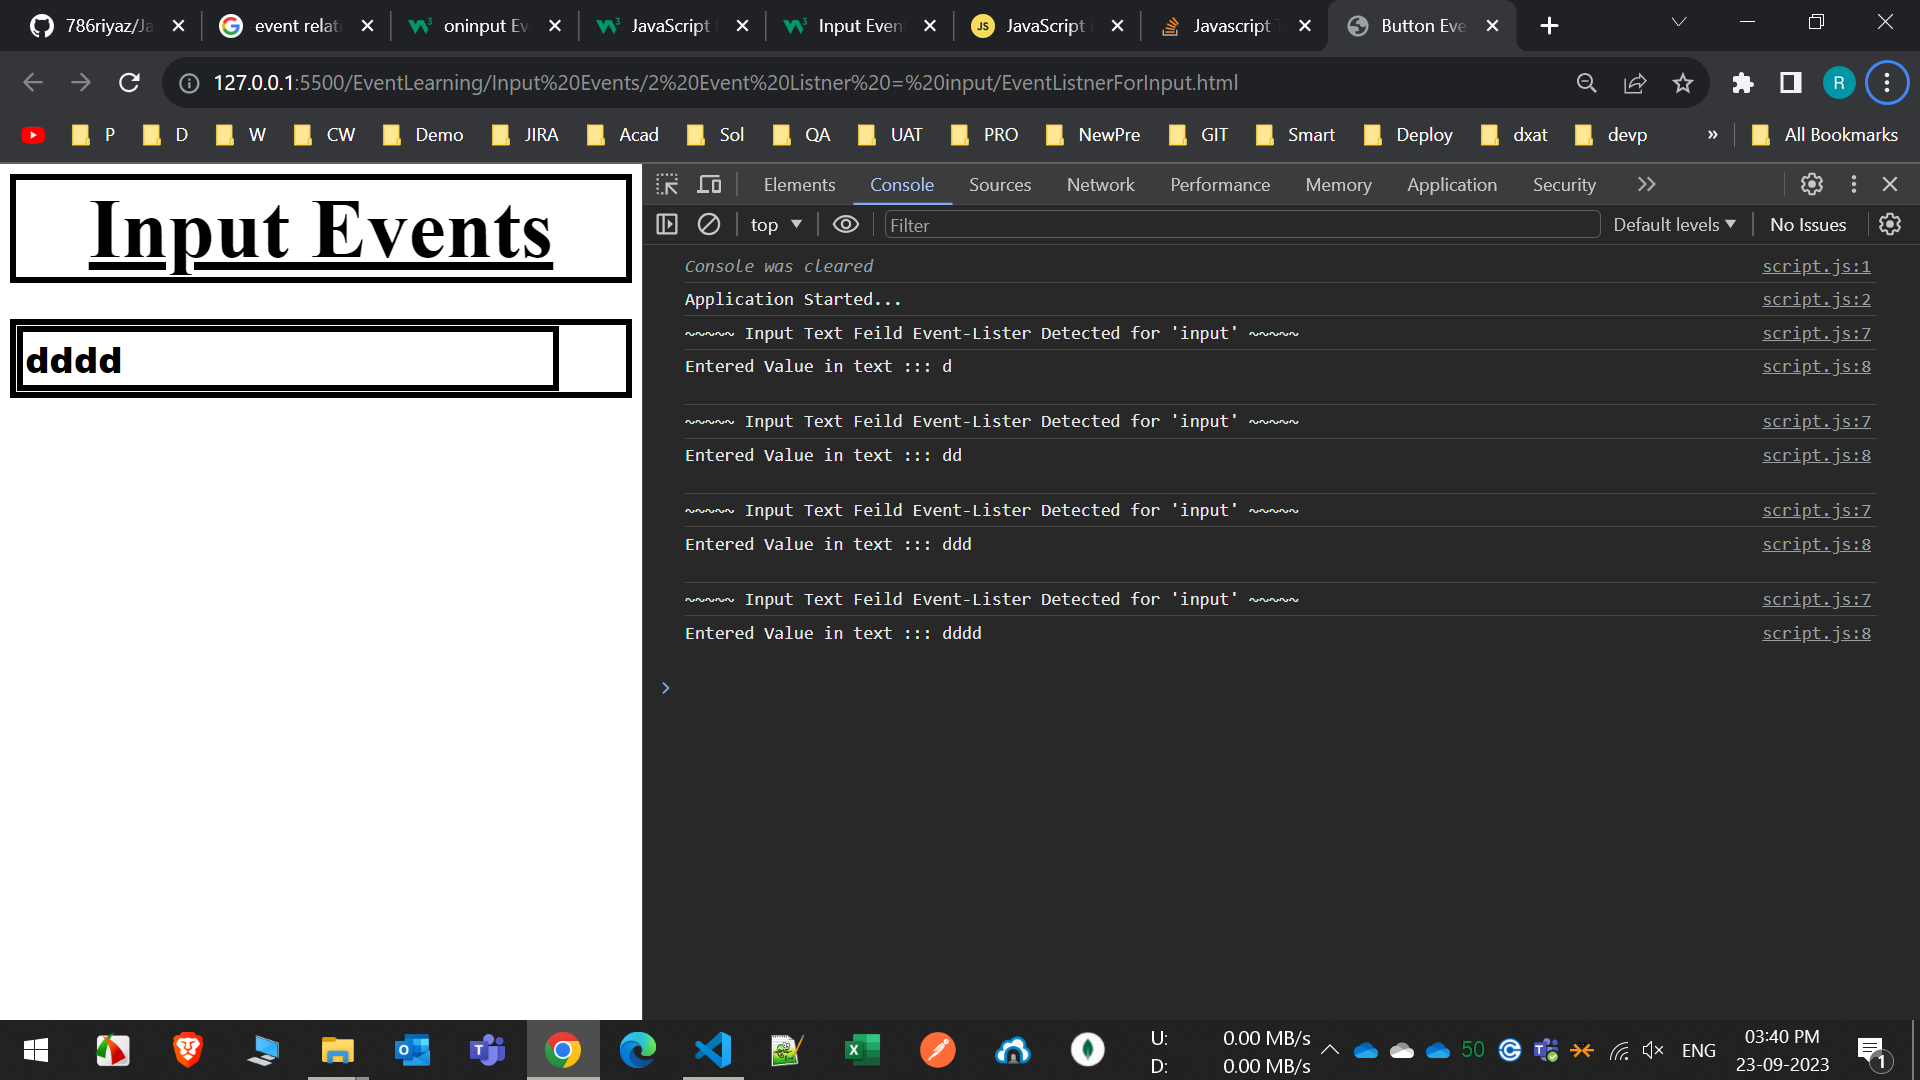
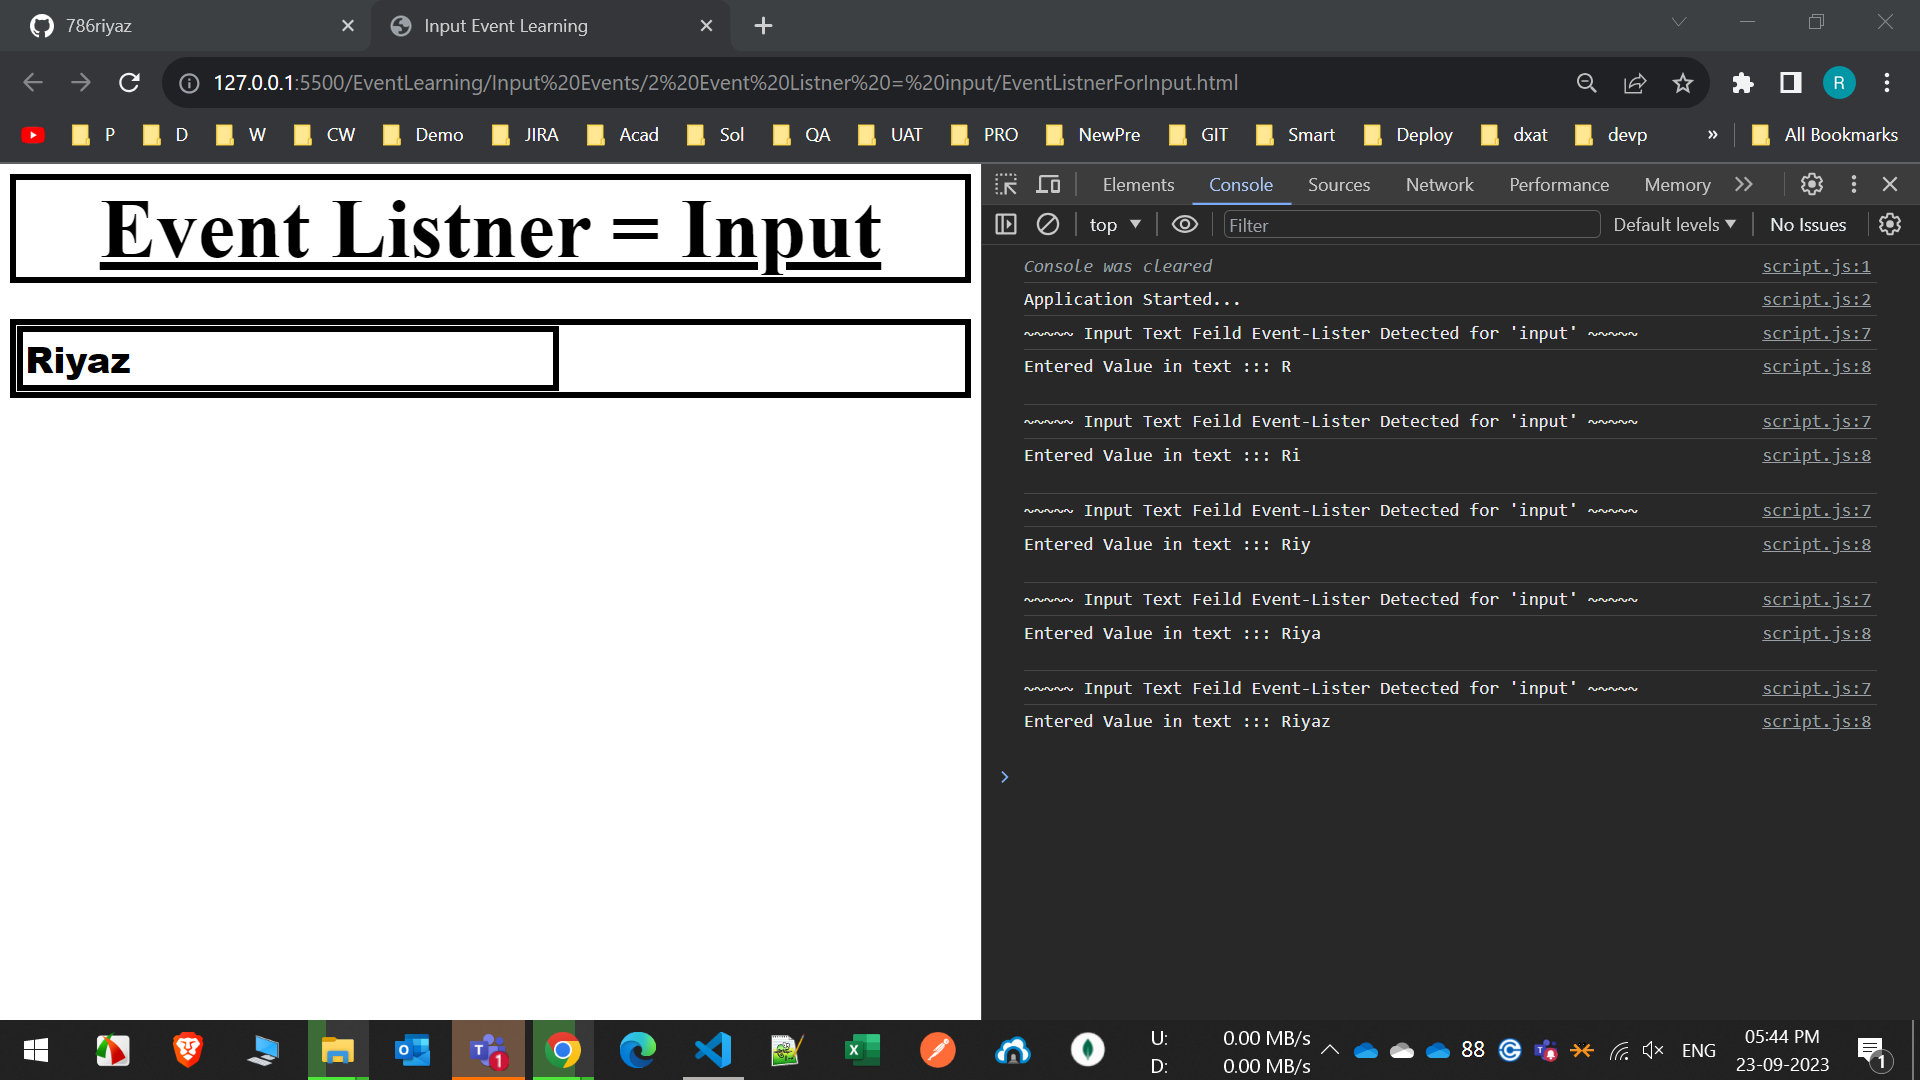
Rename and Arranged all files and folders

diff --git a/EventLearning/Input Events/5 On Input Attribute and Event Listner/InputEventAndAttribute.html b/EventLearning/Input Events/5 On Input Attribute and Event Listner/InputEventAndAttribute.html
@@ -1,0 +1,22 @@
+<!DOCTYPE html>
+<html lang="en">
+
+<head>
+    <meta charset="UTF-8">
+    <meta name="viewport" content="width=device-width, initial-scale=1.0">
+    <title>Input Event Learning</title>
+</head>
+
+<body>
+<h1>Event Listner and on Input Attribute of text Area</h1>
+    <input type="text" id="inputText"><br><br>
+    <input type="number" id="inputNumber"><br><br>
+
+    <textarea name="textarea" id="textarea" cols="30" rows="10"
+        oninput="onInputAttributeFunction(this.value)"></textarea>
+
+</body>
+<link rel="stylesheet" href="style.css">
+<script src="script.js"></script>
+
+</html>

diff --git a/EventLearning/Input Events/4 On Change Attribute/OnChangeAttribute.html b/EventLearning/Input Events/4 On Change Attribute/OnChangeAttribute.html
@@ -4,17 +4,16 @@
 <head>
     <meta charset="UTF-8">
     <meta name="viewport" content="width=device-width, initial-scale=1.0">
-    <title>Button Event Learning</title>
+    <title>Input Event Learning</title>
 </head>
 
 <body>
     <table>
-        <caption> Input Events </caption>
+        <caption> On Change Atribute on Input </caption>
         <tr>
             <td>
-                <textarea name="textarea" id="inputText" cols="30" rows="10"></textarea>
+                <input type="text" id="inputText" onchange="onChangeFunction(this.value)">
             </td>
-
         </tr>
     </table>
 </body>

diff --git a/EventLearning/Input Events/3 Event Listner = Text Input/EventListnerForTextInput.html b/EventLearning/Input Events/3 Event Listner = Text Input/EventListnerForTextInput.html
@@ -4,16 +4,17 @@
 <head>
     <meta charset="UTF-8">
     <meta name="viewport" content="width=device-width, initial-scale=1.0">
-    <title>Button Event Learning</title>
+    <title>Input Event Learning</title>
 </head>
 
 <body>
     <table>
-        <caption> Input Events </caption>
+        <caption> Event Listner = Text Input </caption>
         <tr>
             <td>
-                <input type="text" id="inputText" onchange="onChangeFunction(this.value)">
+                <textarea name="textarea" id="inputText" cols="30" rows="10"></textarea>
             </td>
+
         </tr>
     </table>
 </body>

diff --git a/EventLearning/Input Events/2 Event Listner = input/EventListnerForInput.html b/EventLearning/Input Events/2 Event Listner = input/EventListnerForInput.html
@@ -4,12 +4,12 @@
 <head>
     <meta charset="UTF-8">
     <meta name="viewport" content="width=device-width, initial-scale=1.0">
-    <title>Button Event Learning</title>
+    <title>Input Event Learning</title>
 </head>
 
 <body>
     <table>
-        <caption> Input Events </caption>
+        <caption> Event Listner = Input </caption>
         <tr>
             <td>
                 <input type="text" id="inputText">

diff --git a/EventLearning/Button Events/ButtonEvent.html b/EventLearning/Button Events/ButtonEvent.html
@@ -27,7 +27,7 @@
         </tr>
     </table>
 </body>
-<link rel="stylesheet" href="ButtonEvent.css">
-<script src="ButtonEvent.js"></script>
+<link rel="stylesheet" href="style.css">
+<script src="script.js"></script>
 
 </html>
